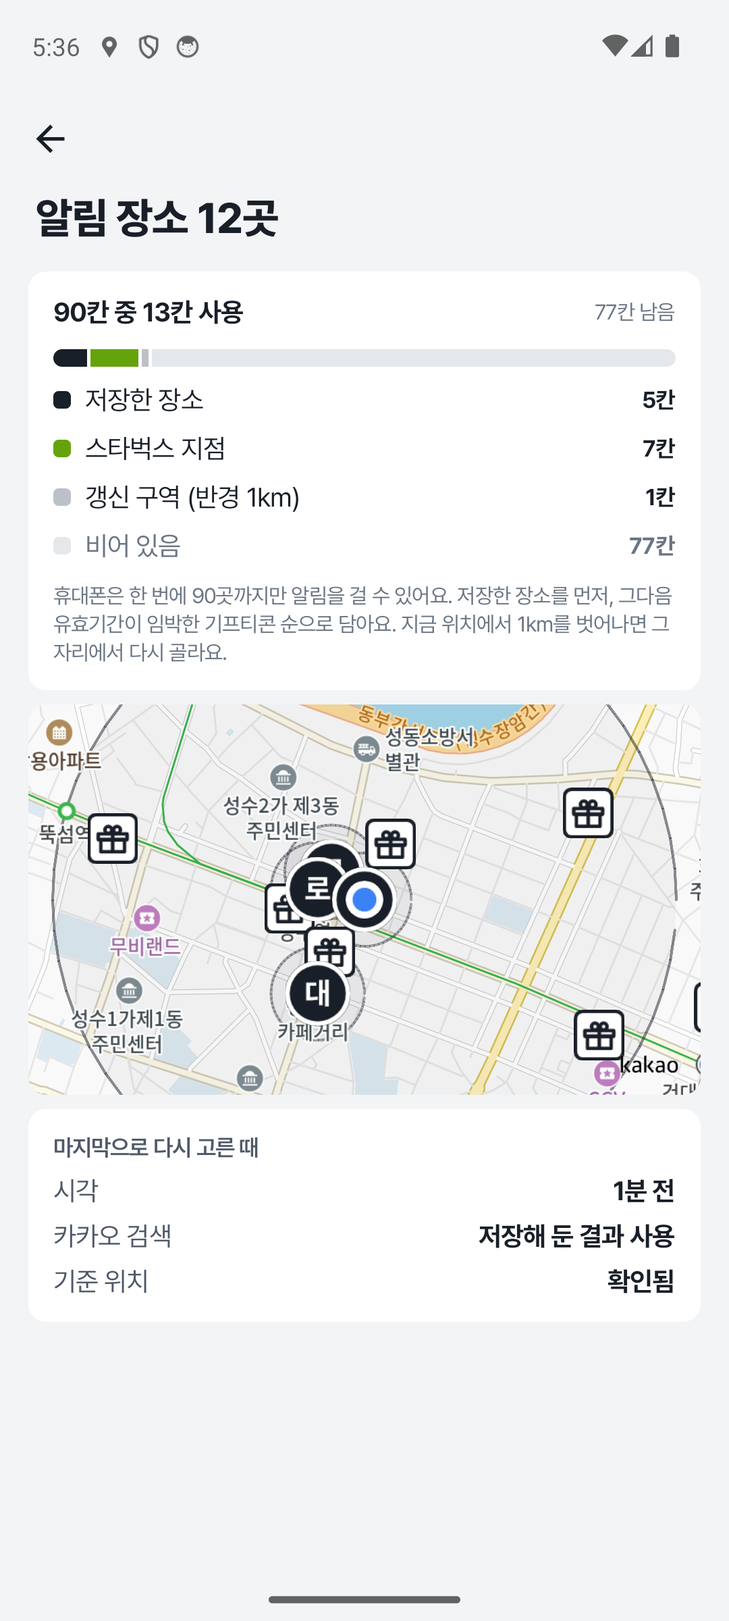
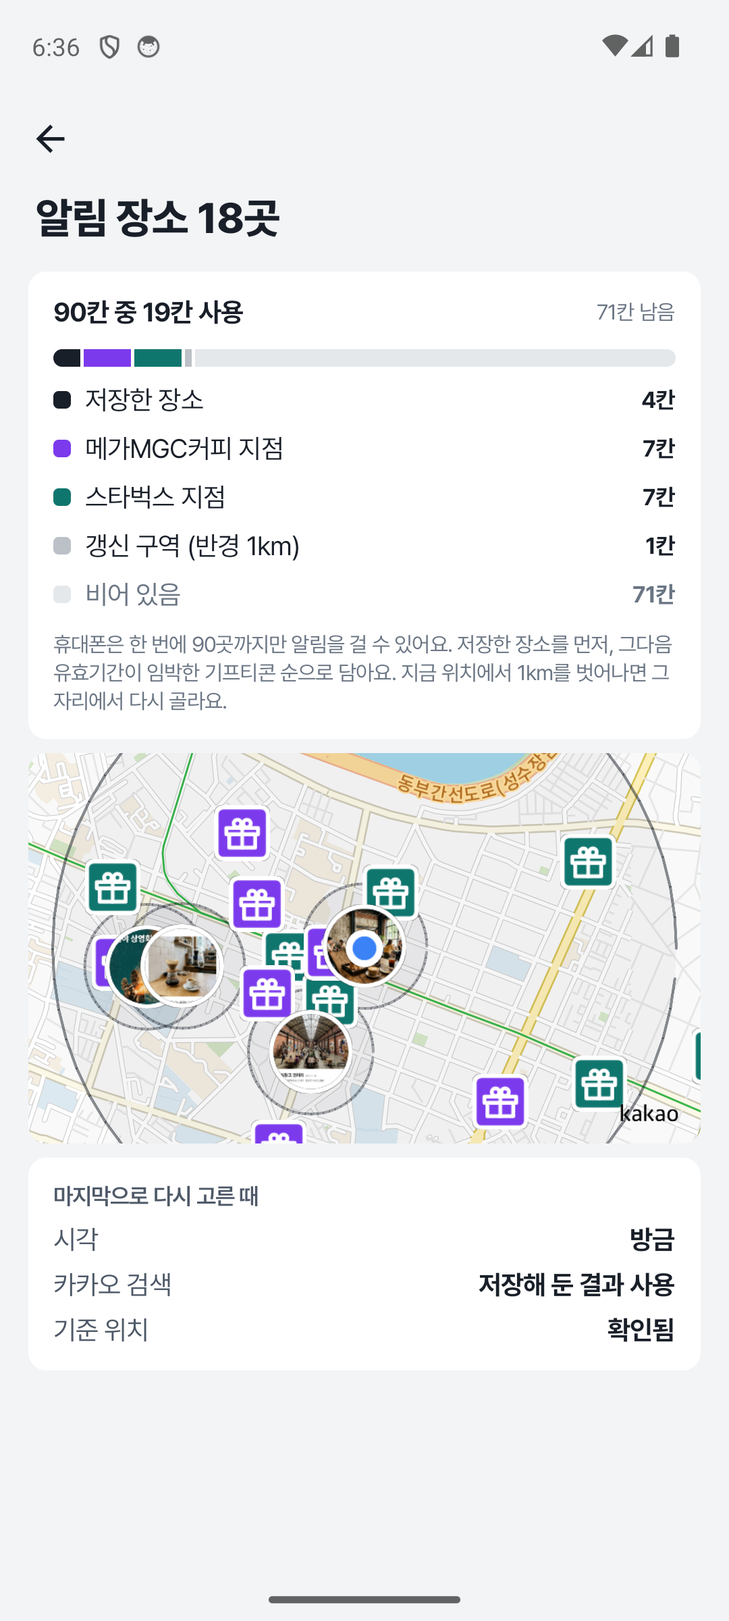
map: one color per gifticon brand on pins, route stops, the list and the status bar; new demo screenshots
Gift pins were all the same white square, so two brands' branches looked alike.
Each brand now gets a color in the order brands were first saved (violet, teal,
pink, ...; white icons stay 3:1+), shown on its gift pins and route squares, as
a small square before the brand name in the gifticon list (the map's legend)
and on the status screen's slot bar. Near is a lime ring, urgent an orange one.

The add screen shows a gifticon whole instead of a cropped slice. README
screenshots are retaken with realistic demo screenshots (post, blog, map page,
poster, two gifticons) added through the app.

diff --git a/app/src/main/java/com/capstone/snapspot/ui/home/HomeScreen.kt b/app/src/main/java/com/capstone/snapspot/ui/home/HomeScreen.kt
@@ -46,8 +46,8 @@ import androidx.compose.runtime.LaunchedEffect
 import androidx.compose.runtime.collectAsState
 import androidx.compose.runtime.getValue
 import androidx.compose.runtime.mutableStateOf
-import androidx.compose.runtime.rememberCoroutineScope
 import androidx.compose.runtime.remember
+import androidx.compose.runtime.rememberCoroutineScope
 import androidx.compose.runtime.saveable.rememberSaveable
 import androidx.compose.runtime.setValue
 import androidx.compose.ui.Alignment
@@ -66,6 +66,8 @@ import androidx.compose.ui.unit.dp
 import androidx.compose.ui.unit.sp
 import com.capstone.snapspot.core.BRANCH_RADIUS_M
 import com.capstone.snapspot.core.Coords
+import com.capstone.snapspot.core.brandKey
+import com.capstone.snapspot.core.brandKeyOfRegion
 import com.capstone.snapspot.core.dDay
 import com.capstone.snapspot.core.daysLeft
 import com.capstone.snapspot.core.distanceMeters
@@ -86,6 +88,8 @@ import com.capstone.snapspot.ui.components.Shot
 import com.capstone.snapspot.ui.map.MapBranch
 import com.capstone.snapspot.ui.map.MapPlace
 import com.capstone.snapspot.ui.map.SpotMap
+import com.capstone.snapspot.ui.map.brandTone
+import com.capstone.snapspot.ui.map.brandToneIndex
 import com.capstone.snapspot.ui.theme.SnapColors
 import com.capstone.snapspot.ui.theme.SnapShapes
 import com.capstone.snapspot.ui.theme.SnapSpace
@@ -160,6 +164,8 @@ fun HomeScreen(
         if (open == null && tab == Tab.PLACES && i >= 0) listState.animateScrollToItem(header + i)
     }
 
+    // Each gifticon brand keeps one color on the map and in the route, in the order the brands were first saved.
+    val tones = brandToneIndex(coupons.map { it.coupon }.sortedBy { it.createdAt }.map { brandKey(it.brand) })
     // An open bundle numbers its stops in walking order; coupon stops are the branch the route picked.
     val stops = open?.let { routeStops(it) }.orEmpty()
     val numberOf = stops.mapIndexedNotNull { i, st -> st.placeId?.let { it to i + 1 } }.toMap()
@@ -171,13 +177,13 @@ fun HomeScreen(
         )
     } + stops.mapIndexedNotNull { i, st ->
         if (st.placeId != null) null
-        else MapPlace("route-$i", st.at, 0.0, null, ended = false, selected = false, number = i + 1, couponStop = true)
+        else MapPlace("route-$i", st.at, 0.0, null, ended = false, selected = false, number = i + 1, couponStop = true, tone = tones[brandKey(st.brand.orEmpty())] ?: 0)
     }
     // Follows the streets once TMAP answers, straight lines until then.
     val routeLine = if (open == null) emptyList() else walks[open.walkKey]?.line ?: open.line
     val mapBranches = win?.branches.orEmpty().map { (id, b) ->
         val at = Coords(b.latitude, b.longitude)
-        MapBranch(id, at, b.urgent, here?.let { distanceMeters(it, at) <= BRANCH_RADIUS_M } == true)
+        MapBranch(id, at, b.urgent, here?.let { distanceMeters(it, at) <= BRANCH_RADIUS_M } == true, tones[brandKeyOfRegion(id)] ?: 0)
     }
 
     BoxWithConstraints(Modifier.fillMaxSize().background(SnapColors.bg)) {
@@ -257,7 +263,7 @@ fun HomeScreen(
                         } else {
                             if (coupons.isEmpty()) item(key = "empty") { Empty("저장한 기프티콘이 없어요", "기프티콘 스크린샷을 넣으면 그 브랜드 지점 근처에서 알려 드려요.") }
                             itemsIndexed(coupons, key = { _, c -> c.coupon.id }) { i, item ->
-                                TicketRow(item, now, groupShape(i, coupons.size), onClick = { onCoupon(item.coupon.id) }, onLongClick = { deletingCoupon = item.coupon })
+                                TicketRow(item, tones[brandKey(item.coupon.brand)] ?: 0, now, groupShape(i, coupons.size), onClick = { onCoupon(item.coupon.id) }, onLongClick = { deletingCoupon = item.coupon })
                             }
                         }
                     } else {
@@ -285,7 +291,7 @@ fun HomeScreen(
                         itemsIndexed(stops, key = { i, _ -> "stop-$i" }) { i, st ->
                             val p = places.firstOrNull { it.id == st.placeId }
                             StopRow(
-                                i + 1, st, p, near = p != null && p.id in near, shape = groupShape(i, stops.size),
+                                i + 1, st, p, near = p != null && p.id in near, tone = tones[brandKey(st.brand.orEmpty())] ?: 0, shape = groupShape(i, stops.size),
                                 onClick = p?.let { { vm.focusOn(it.id); showMap() } },
                             )
                         }
@@ -404,7 +410,8 @@ private fun PlaceRow(
 
 @OptIn(ExperimentalFoundationApi::class)
 @Composable
-private fun TicketRow(item: CouponItem, now: Long, shape: Shape, onClick: () -> Unit, onLongClick: () -> Unit) {
+/** `tone`: the brand's color on the map, shown as a small square before the name so the gift pins read as a legend. */
+private fun TicketRow(item: CouponItem, tone: Int, now: Long, shape: Shape, onClick: () -> Unit, onLongClick: () -> Unit) {
     val c = item.coupon
     val near = item.active && item.nearest != null && item.nearest.second <= BRANCH_RADIUS_M
     Row(
@@ -416,7 +423,10 @@ private fun TicketRow(item: CouponItem, now: Long, shape: Shape, onClick: () -> 
     ) {
         Shot(c.imageUri, 40.dp, 40.dp, modifier = if (item.active) Modifier else Modifier.alpha(0.5f))
         Column(Modifier.weight(1f), verticalArrangement = Arrangement.spacedBy(2.dp)) {
-            Text(c.brand, style = SnapType.title.copy(fontSize = 15.sp, color = if (item.active) SnapColors.ink else SnapColors.muted), maxLines = 1, overflow = TextOverflow.Ellipsis)
+            Row(verticalAlignment = Alignment.CenterVertically, horizontalArrangement = Arrangement.spacedBy(6.dp)) {
+                Box(Modifier.size(10.dp).clip(RoundedCornerShape(3.dp)).background(if (item.active) brandTone(tone) else SnapColors.line))
+                Text(c.brand, style = SnapType.title.copy(fontSize = 15.sp, color = if (item.active) SnapColors.ink else SnapColors.muted), maxLines = 1, overflow = TextOverflow.Ellipsis)
+            }
             Text(couponMeta(item), style = SnapType.meta, maxLines = 1, overflow = TextOverflow.Ellipsis)
         }
         when {
@@ -445,7 +455,7 @@ private fun routeStops(b: BundleItem): List<RouteStop> = b.route.order.indices.m
 }
 
 @Composable
-private fun StopRow(number: Int, stop: RouteStop, place: Place?, near: Boolean, shape: Shape, onClick: (() -> Unit)?) {
+private fun StopRow(number: Int, stop: RouteStop, place: Place?, near: Boolean, tone: Int, shape: Shape, onClick: (() -> Unit)?) {
     Row(
         Modifier.fillMaxWidth().clip(shape).background(SnapColors.surface)
             .then(if (onClick != null) Modifier.clickable(onClick = onClick) else Modifier)
@@ -453,7 +463,7 @@ private fun StopRow(number: Int, stop: RouteStop, place: Place?, near: Boolean, 
         horizontalArrangement = Arrangement.spacedBy(12.dp),
         verticalAlignment = Alignment.CenterVertically,
     ) {
-        StopNumber(number, coupon = place == null)
+        StopNumber(number, couponTone = if (place == null) tone else null)
         if (place != null) Shot(place.imageUri, 40.dp, 40.dp)
         Column(Modifier.weight(1f), verticalArrangement = Arrangement.spacedBy(2.dp)) {
             Text(stop.name, style = SnapType.title.copy(fontSize = 15.sp), maxLines = 1, overflow = TextOverflow.Ellipsis)
@@ -463,16 +473,15 @@ private fun StopRow(number: Int, stop: RouteStop, place: Place?, near: Boolean, 
     }
 }
 
-/** Route numbers match the map: ink circle with a lime digit for places, white rounded square for coupon branches. */
+/** Route numbers match the map: ink circle with a lime digit for places, a square in the brand's color for coupon branches. */
 @Composable
-private fun StopNumber(n: Int, coupon: Boolean) {
-    val shape = if (coupon) RoundedCornerShape(4.dp) else CircleShape
+private fun StopNumber(n: Int, couponTone: Int?) {
+    val shape = if (couponTone != null) RoundedCornerShape(4.dp) else CircleShape
     Box(
-        Modifier.size(24.dp).clip(shape).background(if (coupon) SnapColors.surface else SnapColors.ink)
-            .then(if (coupon) Modifier.border(2.dp, SnapColors.ink, shape) else Modifier),
+        Modifier.size(24.dp).clip(shape).background(if (couponTone != null) brandTone(couponTone) else SnapColors.ink),
         contentAlignment = Alignment.Center,
     ) {
-        Text("$n", style = SnapType.meta.copy(fontWeight = FontWeight.Bold, color = if (coupon) SnapColors.ink else SnapColors.lime))
+        Text("$n", style = SnapType.meta.copy(fontWeight = FontWeight.Bold, color = if (couponTone != null) SnapColors.surface else SnapColors.lime))
     }
 }
 

diff --git a/app/src/main/java/com/capstone/snapspot/ui/status/StatusScreen.kt b/app/src/main/java/com/capstone/snapspot/ui/status/StatusScreen.kt
@@ -28,6 +28,7 @@ import com.capstone.snapspot.core.MAX_REGIONS
 import com.capstone.snapspot.core.PLACE_GROUP
 import com.capstone.snapspot.core.REFRESH_RADIUS_M
 import com.capstone.snapspot.core.brandKey
+import com.capstone.snapspot.core.brandKeyOfRegion
 import com.capstone.snapspot.core.placeEnded
 import com.capstone.snapspot.ui.components.BigTitle
 import com.capstone.snapspot.ui.components.Card
@@ -39,6 +40,8 @@ import com.capstone.snapspot.ui.map.MapBranch
 import com.capstone.snapspot.ui.map.MapFocus
 import com.capstone.snapspot.ui.map.MapPlace
 import com.capstone.snapspot.ui.map.SpotMap
+import com.capstone.snapspot.ui.map.brandTone
+import com.capstone.snapspot.ui.map.brandToneIndex
 import com.capstone.snapspot.ui.theme.SnapColors
 import com.capstone.snapspot.ui.theme.SnapSpace
 import com.capstone.snapspot.ui.theme.SnapType
@@ -63,13 +66,15 @@ fun StatusScreen(vm: HomeViewModel, onBack: () -> Unit, onAskPermissions: () -> 
     val here by vm.here.collectAsState()
     val brandNames = coupons.associate { brandKey(it.coupon.brand) to it.coupon.brand }
     val now = System.currentTimeMillis()
+    // Same brand colors as the home map.
+    val tones = brandToneIndex(coupons.map { it.coupon }.sortedBy { it.createdAt }.map { brandKey(it.brand) })
 
-    // Places in ink, coupon branches in lime-deep (urgent brands in orange), the refresh region in grey.
+    // Places in ink, each brand's branches in its map color (urgent brands in orange), the refresh region in grey.
     val parts = buildList {
         add(Triple("저장한 장소", win?.byGroup?.get(PLACE_GROUP) ?: 0, SnapColors.ink))
         win?.byGroup.orEmpty().filterKeys { it != PLACE_GROUP }.forEach { (g, n) ->
             val urgent = win?.branches?.values?.any { it.brandKey == g && it.urgent } == true
-            add(Triple("${brandNames[g] ?: g} 지점${if (urgent) " · 임박" else ""}", n, if (urgent) SnapColors.urgent else SnapColors.limeDeep))
+            add(Triple("${brandNames[g] ?: g} 지점${if (urgent) " · 임박" else ""}", n, if (urgent) SnapColors.urgent else brandTone(tones[g] ?: 0)))
         }
         if (win?.here != null) add(Triple("갱신 구역 (반경 ${(REFRESH_RADIUS_M / 1000).toInt()}km)", 1, SnapColors.muted.copy(alpha = 0.45f)))
     }
@@ -109,7 +114,7 @@ fun StatusScreen(vm: HomeViewModel, onBack: () -> Unit, onAskPermissions: () -> 
             win?.here?.let { center ->
                 SpotMap(
                     places = places.map { MapPlace(it.id, Coords(it.latitude, it.longitude), it.radius.toDouble(), it.imageUri, placeEnded(it, now), false) },
-                    branches = win?.branches.orEmpty().map { (id, b) -> MapBranch(id, Coords(b.latitude, b.longitude), b.urgent, false) },
+                    branches = win?.branches.orEmpty().map { (id, b) -> MapBranch(id, Coords(b.latitude, b.longitude), b.urgent, false, tones[brandKeyOfRegion(id)] ?: 0) },
                     here = here,
                     focus = MapFocus(center, 0, 14),
                     refresh = center to REFRESH_RADIUS_M,

diff --git a/app/src/main/java/com/capstone/snapspot/ui/map/Pins.kt b/app/src/main/java/com/capstone/snapspot/ui/map/Pins.kt
@@ -20,12 +20,18 @@ data class PinStyle(
 /** An alert radius circle around a saved place. */
 data class RadiusStyle(val fill: Color, val stroke: Color)
 
+/** Each brand's slot in [SnapColors.brandTones]: brands in the order given (first saved first), repeating past the end. */
+fun brandToneIndex(brandKeysInOrder: List<String>): Map<String, Int> =
+    brandKeysInOrder.distinct().withIndex().associate { (i, k) -> k to i % SnapColors.brandTones.size }
+
+fun brandTone(index: Int): Color = SnapColors.brandTones[index.mod(SnapColors.brandTones.size)]
+
 /**
  * Saved places are circles showing their screenshot (a map pin glyph on ink when there is none); route stops carry
  * their number; coupon stops are white squares.
  */
 fun placePin(p: MapPlace): PinStyle = when {
-    p.number != null && p.couponStop -> PinStyle("${p.number}", SnapColors.surface, SnapColors.ink, SnapColors.ink, 24, 2f, PinShape.SQUARE)
+    p.number != null && p.couponStop -> PinStyle("${p.number}", brandTone(p.tone), SnapColors.surface, SnapColors.surface, 26, 2f, PinShape.SQUARE)
     p.number != null -> PinStyle("${p.number}", SnapColors.ink, SnapColors.surface, SnapColors.lime, 28, 2f, PinShape.CIRCLE)
     else -> PinStyle(
         "", if (p.ended) SnapColors.muted else SnapColors.ink, if (p.near && !p.ended) SnapColors.lime else SnapColors.surface,
@@ -34,10 +40,13 @@ fun placePin(p: MapPlace): PinStyle = when {
     )
 }
 
-/** Coupon branches are small white squares with a gift icon: lime when near, ringed in urgent orange when the coupon ends soon. */
+/**
+ * Coupon branches are small squares in their brand's color with a white gift icon, so two brands tell apart:
+ * ringed in urgent orange when the coupon ends soon, else in lime when near, else in white.
+ */
 fun branchPin(b: MapBranch): PinStyle = PinStyle(
-    "", if (b.near) SnapColors.lime else SnapColors.surface, if (b.urgent) SnapColors.urgent else SnapColors.ink,
-    SnapColors.ink, 22, if (b.urgent) 2.5f else 1.5f, PinShape.SQUARE, icon = PinIcon.GIFT,
+    "", brandTone(b.tone), if (b.urgent) SnapColors.urgent else if (b.near) SnapColors.lime else SnapColors.surface,
+    SnapColors.surface, if (b.near) 26 else 24, if (b.urgent || b.near) 3f else 2f, PinShape.SQUARE, icon = PinIcon.GIFT,
 )
 
 val ME_PIN = PinStyle("", SnapColors.me, SnapColors.surface, SnapColors.surface, 16, 3f, PinShape.CIRCLE)

diff --git a/app/src/test/java/com/capstone/snapspot/ui/map/PinsTest.kt b/app/src/test/java/com/capstone/snapspot/ui/map/PinsTest.kt
@@ -52,25 +52,37 @@ class PinsTest {
     }
 
     @Test
-    fun `coupon stops are white squares with an ink number`() {
-        val s = placePin(place(number = 3, couponStop = true))
+    fun `coupon stops are squares in their brand's color with a white number`() {
+        val s = placePin(place(number = 3, couponStop = true).copy(tone = 1))
         assertEquals(PinShape.SQUARE, s.shape)
-        assertEquals(SnapColors.surface, s.fill)
-        assertEquals(SnapColors.ink, s.textColor)
+        assertEquals(SnapColors.brandTones[1], s.fill)
+        assertEquals(SnapColors.surface, s.textColor)
         assertEquals("3", s.text)
     }
 
     @Test
-    fun `branches are gift squares, lime when near, orange-ringed when urgent`() {
-        val b = MapBranch("b", Coords(37.5, 127.0), urgent = true, near = true)
+    fun `brands get colors in the order they were first saved, repeating past the palette`() {
+        val keys = listOf("메가커피", "스타벅스", "메가커피") + List(SnapColors.brandTones.size) { "b$it" }
+        val t = brandToneIndex(keys)
+        assertEquals(0, t["메가커피"])
+        assertEquals(1, t["스타벅스"])
+        assertEquals(0, t["b${SnapColors.brandTones.size - 2}"])
+        assertEquals(SnapColors.brandTones[0], brandTone(SnapColors.brandTones.size))
+    }
+
+    @Test
+    fun `branches are gift squares in their brand's color, orange-ringed when urgent, lime-ringed when near`() {
+        val b = MapBranch("b", Coords(37.5, 127.0), urgent = true, near = true, tone = 2)
         val s = branchPin(b)
         assertEquals(PinShape.SQUARE, s.shape)
         assertEquals(PinIcon.GIFT, s.icon)
         assertEquals("", s.text)
-        assertEquals(SnapColors.lime, s.fill)
+        assertEquals(SnapColors.brandTones[2], s.fill)
+        assertEquals(SnapColors.surface, s.textColor)
         assertEquals(SnapColors.urgent, s.ring)
-        assertEquals(SnapColors.surface, branchPin(b.copy(near = false)).fill)
-        assertEquals(SnapColors.ink, branchPin(b.copy(urgent = false)).ring)
+        assertEquals(SnapColors.lime, branchPin(b.copy(urgent = false)).ring)
+        assertEquals(SnapColors.surface, branchPin(b.copy(urgent = false, near = false)).ring)
+        assertEquals(SnapColors.brandTones[0], branchPin(b.copy(tone = 0)).fill)
     }
 
     @Test

diff --git a/app/src/main/java/com/capstone/snapspot/ui/components/Components.kt b/app/src/main/java/com/capstone/snapspot/ui/components/Components.kt
@@ -92,16 +92,19 @@ fun Shot(
     }
 }
 
-/** Just the picture of a screenshot at full width, as tall as the picture is (clamped to `minHeight..maxHeight`). */
+/**
+ * Just the picture of a screenshot at full width, as tall as the picture is (clamped to `minHeight..maxHeight`).
+ * With `whole`, the entire screenshot instead, fitted inside `maxHeight`.
+ */
 @Composable
-fun PhotoShot(uri: String?, minHeight: Dp, maxHeight: Dp, modifier: Modifier = Modifier) {
+fun PhotoShot(uri: String?, minHeight: Dp, maxHeight: Dp, modifier: Modifier = Modifier, whole: Boolean = false) {
     val ctx = LocalContext.current
-    val image by produceState<ImageBitmap?>(null, uri) {
+    val image by produceState<ImageBitmap?>(null, uri, whole) {
         value = if (uri == null) null else withContext(Dispatchers.IO) {
             runCatching {
                 val opts = BitmapFactory.Options().apply { inSampleSize = 2 }
                 ctx.contentResolver.openInputStream(Uri.parse(uri)).use { BitmapFactory.decodeStream(it, null, opts) }
-                    ?.let { photoOnly(it) }?.asImageBitmap()
+                    ?.let { if (whole) it else photoOnly(it) }?.asImageBitmap()
             }.getOrNull()
         }
     }
@@ -109,7 +112,7 @@ fun PhotoShot(uri: String?, minHeight: Dp, maxHeight: Dp, modifier: Modifier = M
         val img = image
         val h = if (img == null) minHeight else (maxWidth * (img.height.toFloat() / img.width)).coerceIn(minHeight, maxHeight)
         Box(Modifier.fillMaxWidth().height(h).background(SnapColors.line)) {
-            img?.let { Image(it, contentDescription = null, contentScale = ContentScale.Crop, modifier = Modifier.fillMaxSize()) }
+            img?.let { Image(it, contentDescription = null, contentScale = if (whole) ContentScale.Fit else ContentScale.Crop, modifier = Modifier.fillMaxSize()) }
         }
     }
 }

diff --git a/app/src/main/java/com/capstone/snapspot/ui/add/AddScreen.kt b/app/src/main/java/com/capstone/snapspot/ui/add/AddScreen.kt
@@ -137,7 +137,7 @@ fun AddScreen(
                     (if (isCoupon) d.brand else d.name).ifBlank { "이름을 적어 주세요" },
                     Modifier.padding(start = 4.dp, top = 4.dp, bottom = 8.dp),
                 )
-                WideShot(d.imageUri, if (isCoupon) null else matchLabel(d.matched, d.coords != null))
+                WideShot(d.imageUri, if (isCoupon) null else matchLabel(d.matched, d.coords != null), whole = isCoupon)
                 Segmented(listOf("place", "coupon"), d.kind, vm::setKind, { if (it == "place") "가 볼 장소" else "기프티콘" })
                 if (isCoupon) CouponForm(vm, d) else PlaceForm(vm, d)
                 Spacer(Modifier.height(8.dp))
@@ -204,10 +204,11 @@ fun AddScreen(
 
 /** The screenshot across the screen, with how its place was found on a white chip. */
 @Composable
-private fun WideShot(uri: String?, label: String?) {
+private fun WideShot(uri: String?, label: String?, whole: Boolean) {
     // The screenshot's picture in full (a post's photo, a poster), not a fixed-height slice of its middle.
     Box(Modifier.fillMaxWidth().clip(SnapShapes.card)) {
-        PhotoShot(uri, minHeight = 160.dp, maxHeight = 340.dp)
+        // A gifticon is shown whole (product, name, expiry, barcode), scaled down to fit.
+        PhotoShot(uri, minHeight = 160.dp, maxHeight = 340.dp, whole = whole)
         label?.let {
             Text(
                 it,

diff --git a/app/src/main/java/com/capstone/snapspot/ui/map/SpotMap.kt b/app/src/main/java/com/capstone/snapspot/ui/map/SpotMap.kt
@@ -82,10 +82,12 @@ data class MapPlace(
     val number: Int? = null,
     val near: Boolean = false,
     val couponStop: Boolean = false,
+    /** A coupon stop's brand slot ([brandTone]). */
+    val tone: Int = 0,
 )
 
-/** A registered coupon branch: a small square with a gift icon, no radius. */
-data class MapBranch(val id: String, val at: Coords, val urgent: Boolean, val near: Boolean)
+/** A registered coupon branch: a small square with a gift icon in its brand's color ([brandTone]), no radius. */
+data class MapBranch(val id: String, val at: Coords, val urgent: Boolean, val near: Boolean, val tone: Int = 0)
 
 /** Where the camera should go; `seq` changes for every request so the same spot can be re-focused. */
 data class MapFocus(val at: Coords, val seq: Long, val zoom: Int = 16)

diff --git a/app/src/main/java/com/capstone/snapspot/ui/theme/Theme.kt b/app/src/main/java/com/capstone/snapspot/ui/theme/Theme.kt
@@ -34,6 +34,12 @@ object SnapColors {
     val danger = Color(0xFFC9252D)
     /** Coupons that end within 3 days. */
     val urgent = Color(0xFFC2410C)
+    /**
+     * One color per gifticon brand on the map (gift pins, route squares, route numbers), in the order the brands were
+     * first saved. White icons sit on them, so each is at least 3:1 against white; none is close to lime, urgent orange
+     * or the user's blue.
+     */
+    val brandTones = listOf(Color(0xFF7C3AED), Color(0xFF0F766E), Color(0xFFDB2777), Color(0xFFA16207), Color(0xFF4338CA), Color(0xFF475569))
 
 }
 

diff --git a/app/src/test/java/com/capstone/snapspot/ui/theme/ThemeTest.kt b/app/src/test/java/com/capstone/snapspot/ui/theme/ThemeTest.kt
@@ -46,6 +46,11 @@ class ThemeTest {
     }
 
     @Test
+    fun `white gift icons and numbers read on every brand color`() {
+        SnapColors.brandTones.forEachIndexed { i, c -> assertContrast(SnapColors.surface, c, 3.0, "white on brand tone $i") }
+    }
+
+    @Test
     fun `map marks stand out from white`() {
         assertContrast(SnapColors.limeDeep, SnapColors.surface, 3.0, "limeDeep")
         assertContrast(SnapColors.me, SnapColors.surface, 3.0, "me")

diff --git a/README.md b/README.md
@@ -10,13 +10,13 @@
 두 경우 모두 **앱이 꺼져 있어도** 동작해요.
 
 <p>
-  <img src="docs/screenshots/home.png" width="180" alt="홈. 화면 전체 지도에 저장한 장소 핀과 알림 반경 원, 선물 상자 모양의 스타벅스 지점 핀. 아래 시트에 '근처에 가 볼 곳이 2곳 있어요', 성수동 코스 카드, 라임색 '지금 근처' 표시가 붙은 장소 목록" />
-  <img src="docs/screenshots/coupon-add.png" width="180" alt="새 기프티콘 확인. '기프티콘에서 찾았어요 · 스타벅스', 브랜드·받을 수 있는 것·유효기간 칸과 '근처 스타벅스에 가면 알려 드려요' 안내" />
+  <img src="docs/screenshots/home.png" width="180" alt="홈. 화면 전체 지도에 저장한 장소가 스크린샷 사진 핀으로, 기프티콘 지점이 브랜드별 색(메가MGC커피 보라, 스타벅스 청록)의 선물 상자 핀으로 보이고, 가까운 지점은 라임 테두리. 아래 시트에 '근처에 가 볼 곳이 1곳 있어요', 성수동 코스 카드, 브랜드 색 표시가 붙은 기프티콘 목록" />
+  <img src="docs/screenshots/add.png" width="180" alt="인스타그램 게시물 스크린샷을 넣은 화면. '스크린샷에서 찾았어요 · 어니언 성수', 게시물 사진 전체와 '카카오맵에서 찾았어요' 표시, 장소 이름·분류·메모 칸" />
   <img src="docs/screenshots/coupon-open.png" width="180" alt="기프티콘 화면. 위에 라임색 '지금 근처 · 스타벅스 스탈릿성수N점 197m', 바코드가 보이도록 기프티콘 이미지를 크게 띄우고 아래에 '사용했어요' 버튼" />
-  <img src="docs/screenshots/status.png" width="180" alt="알림 현황. '알림 장소 12곳', 90칸 중 13칸 사용(저장한 장소 5칸, 스타벅스 지점 7칸, 갱신 구역 1칸)과 등록된 곳을 보여 주는 지도" />
+  <img src="docs/screenshots/status.png" width="180" alt="알림 현황. '알림 장소 18곳', 90칸 중 19칸 사용(저장한 장소 4칸, 메가MGC커피 지점 7칸 보라, 스타벅스 지점 7칸 청록, 갱신 구역 1칸)과 같은 색 핀이 찍힌 지도" />
 </p>
 <p>
-  <img src="docs/screenshots/coupon-alert.png" width="370" alt="알림 '스타벅스 스탈릿성수N점 근처예요 · 스타벅스 카페 아메리카노 Tall · 12월 31일까지'" />
+  <img src="docs/screenshots/coupon-alert.png" width="370" alt="알림 '스타벅스 스탈릿성수N점 근처예요 · 스타벅스 아이스 카페 아메리카노 T · 12월 31일까지'" />
 </p>
 
 ## 핵심 문제: 휴대폰은 90곳까지만 알림을 걸 수 있어요
@@ -182,8 +182,8 @@
 - **동선 길이**: Held-Karp는 정답이라 늘 가장 짧아요(0%). 2-opt·Or-opt는 정답보다 몇 % 길 수 있어요.
 - 그래서 기준은 "어느 쪽이 빠른가"가 아니라 **"정답을 한도 안에 낼 수 있는가"**예요. Held-Karp가 한도에 닿는 12~13곳보다 한 칸 여유를 두고 11곳까지 Held-Karp를 쓰고, 12곳부터 2-opt·Or-opt로 바꿔요.
 <p>
-  <img src="docs/screenshots/bundle-route.png" width="180" alt="성수동 코스를 연 화면. 알림 반경 원은 숨기고, 1~4번 장소를 실제 걷는 길로 잇는 동선과 '걸어서 11분'" />
-  <img src="docs/screenshots/bundle-coupon.png" width="180" alt="기프티콘 포함을 켠 동선. 3번과 5번 사이 동선 위의 스타벅스 성수역점이 흰 네모 4번으로 들어감" />
+  <img src="docs/screenshots/bundle-route.png" width="180" alt="성수동 코스를 연 화면. 알림 반경 원은 숨기고, 장소 1~4번을 실제 걷는 길로 잇는 동선과 '걸어서 17분'" />
+  <img src="docs/screenshots/bundle-coupon.png" width="180" alt="기프티콘 포함을 켠 동선. 동선 위의 스타벅스 성수역점이 청록 네모 2번, 메가MGC커피 성수동가죽거리점이 보라 네모 4번으로 들어가 6곳을 '걸어서 18분'에 도는 동선" />
 </p>
 
 ## 브랜드 지점 찾기
@@ -222,7 +222,7 @@
 
 ## 화면
 
-- **홈**: 화면 전체가 지도(카카오맵 SDK)이고, 저장한 장소와 기프티콘 목록은 아래에서 올라오는 바텀 시트에 있어요. 지도에는 알림 반경 원과 선물 아이콘 모양의 지점 핀이 함께 그려져요. 목록은 장소가 먼저, 그다음 끝나 가는 기프티콘, 나머지 기프티콘 순이에요.
+- **홈**: 화면 전체가 지도(카카오맵 SDK)이고, 저장한 장소와 기프티콘 목록은 아래에서 올라오는 바텀 시트에 있어요. 지도에는 저장한 장소가 그 스크린샷 사진을 담은 동그란 핀과 알림 반경 원으로, 기프티콘 지점이 선물 상자 핀으로 그려져요. 선물 상자는 브랜드마다 색이 달라서(먼저 저장한 브랜드부터 보라, 청록, 분홍…) 두 브랜드 지점이 섞여 있어도 구분되고, 기프티콘 목록·동선 번호·현황 막대에도 같은 색을 써요. 목록은 장소가 먼저, 그다음 끝나 가는 기프티콘, 나머지 기프티콘 순이에요.
 - **추가**: 스크린샷 읽기 → 장소 매칭 결과 또는 기프티콘 지점 미리보기 → 확인. 여러 장이면 "2 / 5"처럼 한 장씩 확인하고(저장 또는 건너뛰기), 뒤의 스크린샷은 미리 읽어 둬요. 갤러리나 다른 앱의 공유 메뉴에서 "SnapSpot에 저장"을 골라도 바로 여기로 와요.
 - **기프티콘**: 기프티콘 이미지를 크게 띄우고, 가까운 지점과 "사용했어요"를 보여 줘요. 오른쪽 위 ⋮ 메뉴의 "알림 미리 보기"로 알림이 어떻게 보일지 확인할 수 있어요.
 - **동네 묶음**: 서로 700m 안에 저장한 장소가 3곳 이상이면 "성수동 · 가 볼 곳 4곳 · 걸어서 약 13분" 카드로 묶어요. 카드를 누르면 모두 들르는 최단 걷기 동선을 지도에 번호로 그려요. "기프티콘 포함"을 켜면 기프티콘 브랜드마다 동선에 가장 잘 맞는 지점 한 곳을 골라 넣어요. 그 동네에 들어가면 장소마다 울리는 대신 "📍 성수동에 가 볼 곳 4곳이 있어요" 알림이 한 번 와요(경로 정보는 홈에서만).
